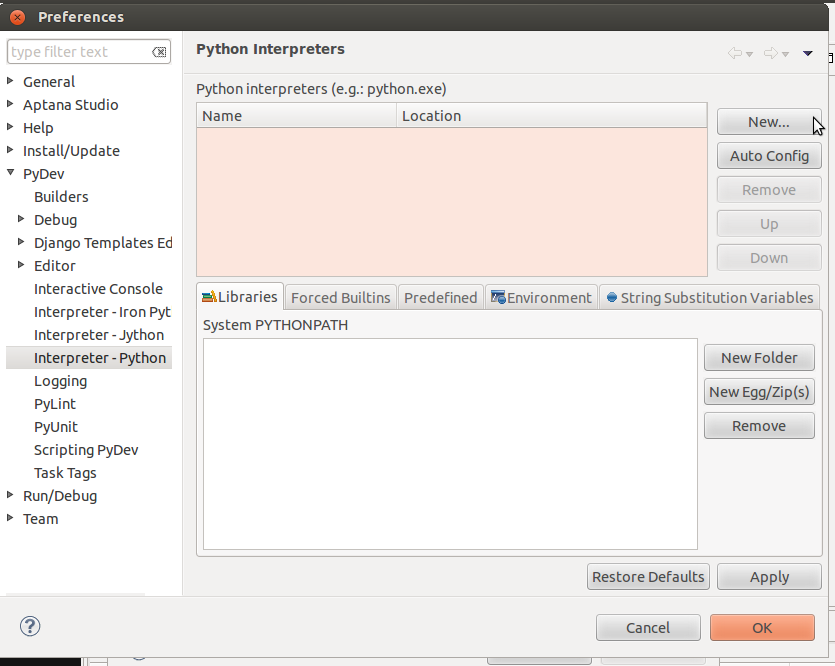
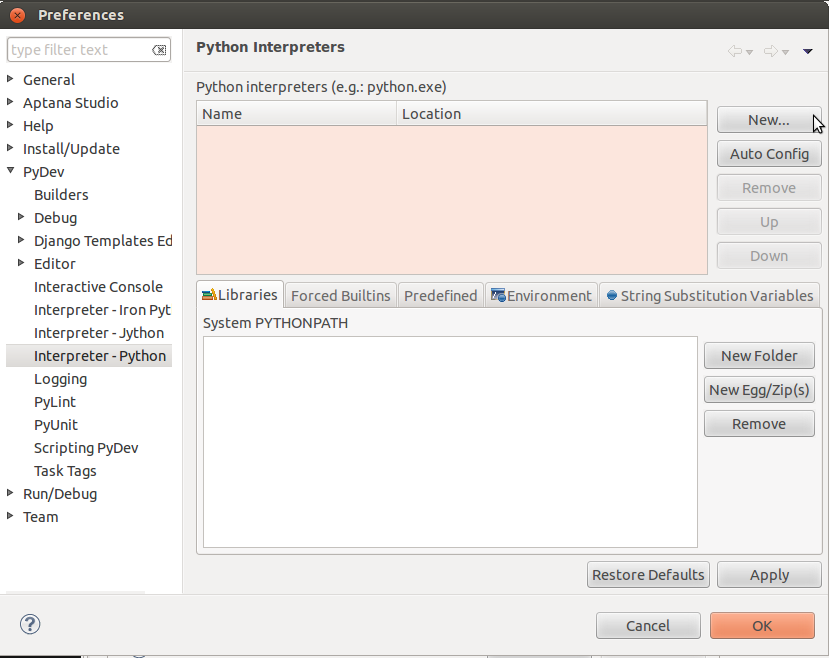
Finish writing Aptana setup section; and recrop images.

Changed region(s): [[0.0, 0.0, 1.0, 1.0], [0.8745, 0.0608, 0.9047, 0.0912]]

diff --git a/setup/aptana.rst b/setup/aptana.rst
@@ -129,7 +129,7 @@ project menu, and select "PyDev Project".
 A new project dialog will appear.  Fill in the name you want for your project,
 then click on the blue "Please configure an interpreter" link.  
 
-.. image:: new-project.dialog.png
+.. image:: new-project-dialog.png
 
 You will be taken to Eclipse's Python interpreter settings page.  
 
@@ -154,8 +154,7 @@ Click "OK", and you will return to the PyDev Project dialog.  From the
 
 .. image:: select-interpreter2.png
 
+Click "Finish" and you will have successfully created a new project!   Your new
+project will now be visible in the Project Explorer view.
 
-
-.. todo:: 
-
-   Finish New Project section
+.. image:: success.png
